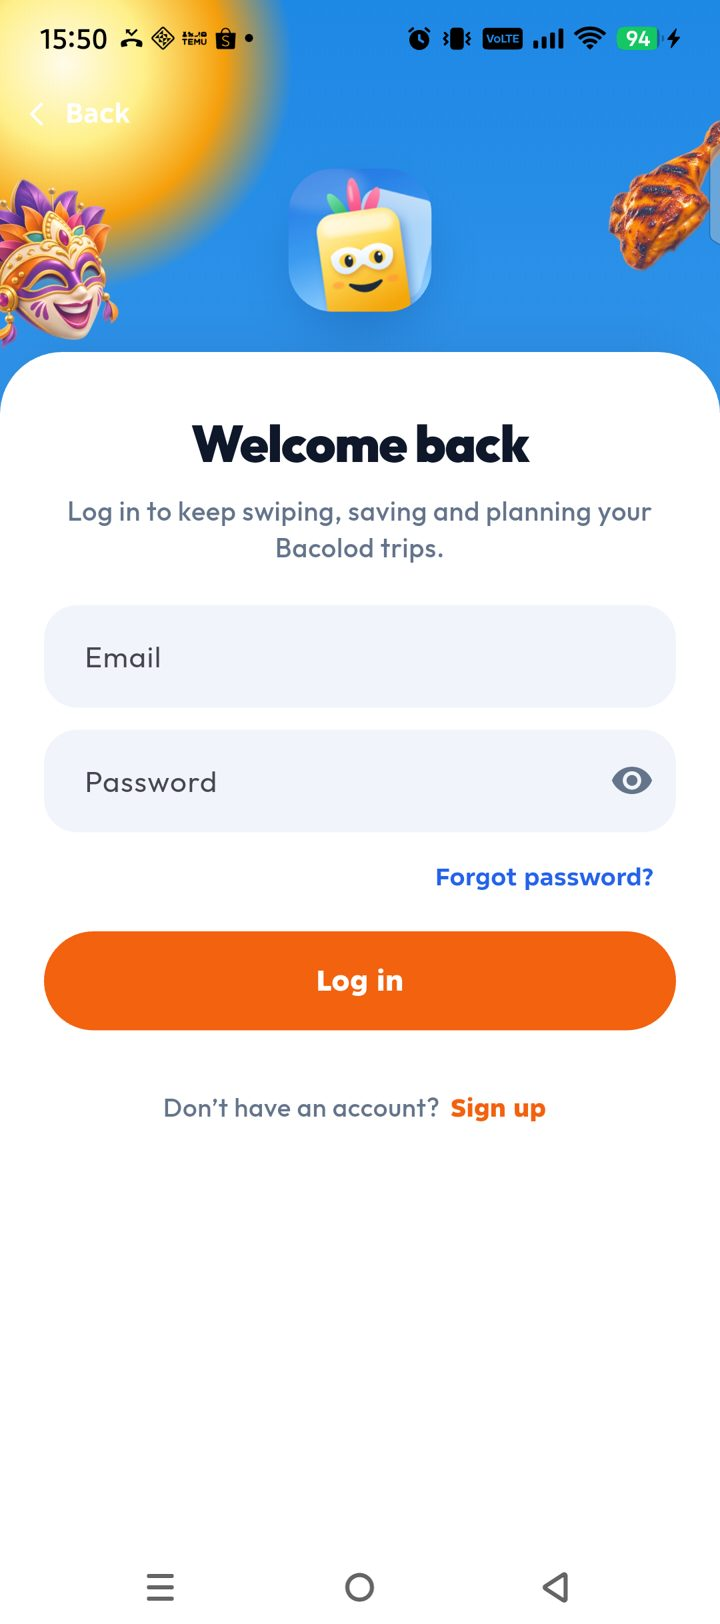
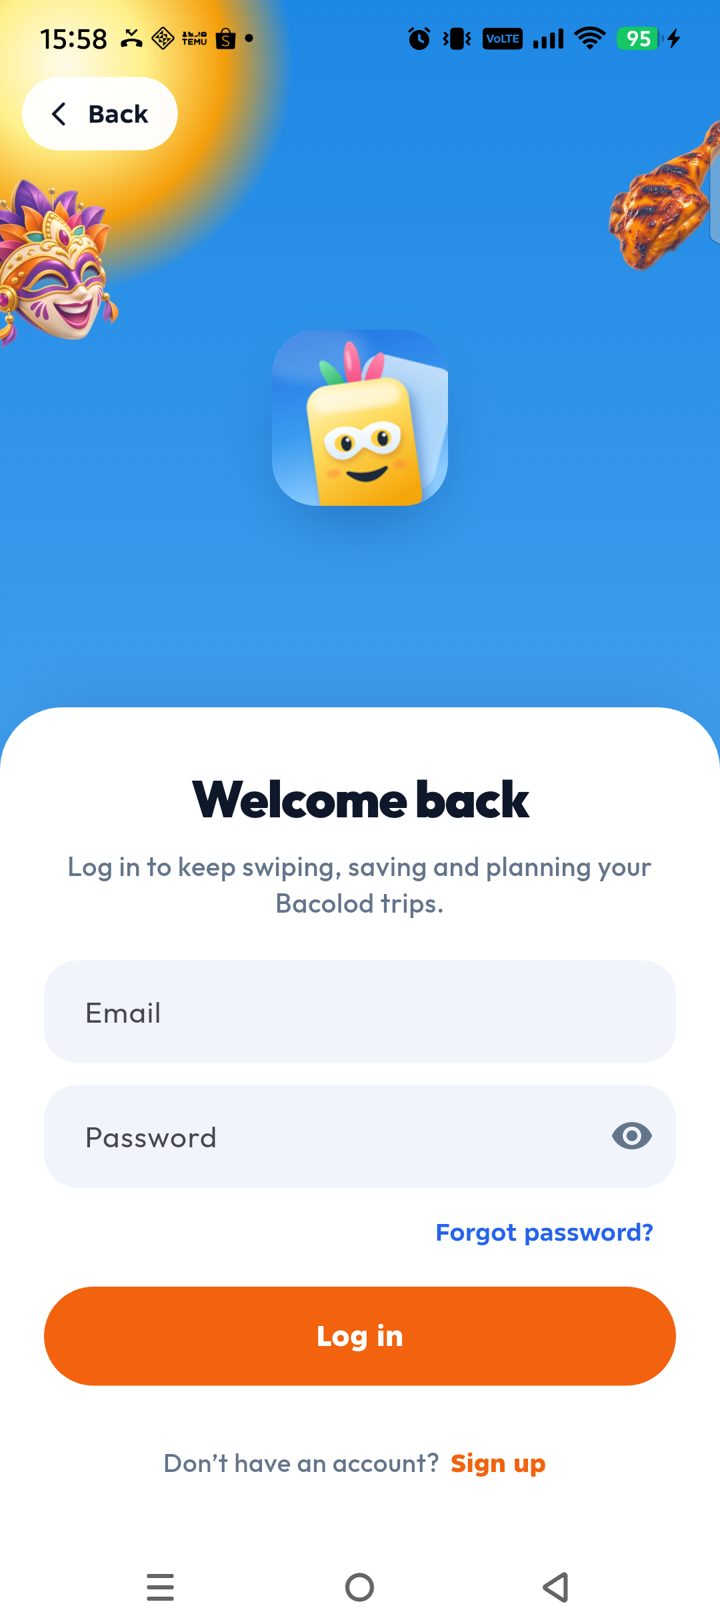
fix: auth sheet fits its form, sky takes the spare height

diff --git a/frontend/lib/auth/sign_in_screen.dart b/frontend/lib/auth/sign_in_screen.dart
@@ -274,101 +274,118 @@ class _SignInScreenState extends State<SignInScreen> {
               child: Center(
                 child: ConstrainedBox(
                   constraints: const BoxConstraints(maxWidth: 480),
-                  child: Column(
-                    children: [
-                      SizedBox(
-                        height: 52,
-                        child: Row(
-                          children: [
-                            const SizedBox(width: 12),
-                            if (canGoBack)
-                              TextButton.icon(
-                                key: const ValueKey('auth-back'),
-                                onPressed: _busy ? null : back,
-                                // A white pill, so it reads even over
-                                // the sun.
-                                style: TextButton.styleFrom(
-                                  backgroundColor: const Color(0xF5FFFFFF),
-                                  foregroundColor: AppTheme.slateDark,
-                                  shape: const StadiumBorder(),
-                                  padding: const EdgeInsets.fromLTRB(
-                                    12,
-                                    8,
-                                    16,
-                                    8,
-                                  ),
-                                  textStyle: const TextStyle(
-                                    fontSize: 14,
-                                    fontWeight: FontWeight.w700,
-                                  ),
+                  // The sheet is only as tall as the form; spare height
+                  // goes to the sky above it, and it all scrolls when the
+                  // keyboard is up.
+                  child: LayoutBuilder(
+                    builder: (context, box) => SingleChildScrollView(
+                      child: ConstrainedBox(
+                        constraints: BoxConstraints(minHeight: box.maxHeight),
+                        child: IntrinsicHeight(
+                          child: Column(
+                            children: [
+                              SizedBox(
+                                height: 52,
+                                child: Row(
+                                  children: [
+                                    const SizedBox(width: 12),
+                                    if (canGoBack)
+                                      TextButton.icon(
+                                        key: const ValueKey('auth-back'),
+                                        onPressed: _busy ? null : back,
+                                        // A white pill, so it reads even over
+                                        // the sun.
+                                        style: TextButton.styleFrom(
+                                          backgroundColor: const Color(
+                                            0xF5FFFFFF,
+                                          ),
+                                          foregroundColor: AppTheme.slateDark,
+                                          shape: const StadiumBorder(),
+                                          padding: const EdgeInsets.fromLTRB(
+                                            12,
+                                            8,
+                                            16,
+                                            8,
+                                          ),
+                                          textStyle: const TextStyle(
+                                            fontSize: 14,
+                                            fontWeight: FontWeight.w700,
+                                          ),
+                                        ),
+                                        icon: const Icon(
+                                          Icons.arrow_back_ios_new_rounded,
+                                          size: 16,
+                                        ),
+                                        label: const Text('Back'),
+                                      ),
+                                  ],
                                 ),
-                                icon: const Icon(
-                                  Icons.arrow_back_ios_new_rounded,
-                                  size: 16,
-                                ),
-                                label: const Text('Back'),
                               ),
-                          ],
-                        ),
-                      ),
-                      // The logo, floating in the sky above the sheet.
-                      Padding(
-                        padding: const EdgeInsets.only(top: 4, bottom: 22),
-                        child: Container(
-                          decoration: BoxDecoration(
-                            borderRadius: BorderRadius.circular(24),
-                            boxShadow: const [
-                              BoxShadow(
-                                color: Color(0x550A2A6B),
-                                blurRadius: 26,
-                                offset: Offset(0, 14),
-                                spreadRadius: -8,
+                              // The logo, floating in the middle of the sky.
+                              Expanded(
+                                child: Center(
+                                  child: Padding(
+                                    padding: const EdgeInsets.only(bottom: 18),
+                                    child: Container(
+                                      decoration: BoxDecoration(
+                                        borderRadius: BorderRadius.circular(24),
+                                        boxShadow: const [
+                                          BoxShadow(
+                                            color: Color(0x550A2A6B),
+                                            blurRadius: 26,
+                                            offset: Offset(0, 14),
+                                            spreadRadius: -8,
+                                          ),
+                                        ],
+                                      ),
+                                      child: ClipRRect(
+                                        borderRadius: BorderRadius.circular(24),
+                                        child: Image.asset(
+                                          'assets/brand/logo.png',
+                                          key: const ValueKey('auth-logo'),
+                                          width: 96,
+                                          height: 96,
+                                        ),
+                                      ),
+                                    ),
+                                  ),
+                                ),
+                              ),
+                              Container(
+                                width: double.infinity,
+                                decoration: const BoxDecoration(
+                                  color: Colors.white,
+                                  borderRadius: BorderRadius.vertical(
+                                    top: Radius.circular(34),
+                                  ),
+                                  boxShadow: [
+                                    BoxShadow(
+                                      color: Color(0x330F285A),
+                                      blurRadius: 30,
+                                      offset: Offset(0, -6),
+                                      spreadRadius: -12,
+                                    ),
+                                  ],
+                                ),
+                                child: Padding(
+                                  padding: EdgeInsets.fromLTRB(
+                                    24,
+                                    30,
+                                    24,
+                                    24 +
+                                        MediaQuery.paddingOf(context).bottom +
+                                        // Room for the "session expired" banner
+                                        // that stays at the bottom meanwhile.
+                                        (widget.reauthenticate ? 96 : 0),
+                                  ),
+                                  child: _form(title, subtitle),
+                                ),
                               ),
                             ],
                           ),
-                          child: ClipRRect(
-                            borderRadius: BorderRadius.circular(24),
-                            child: Image.asset(
-                              'assets/brand/logo.png',
-                              key: const ValueKey('auth-logo'),
-                              width: 78,
-                              height: 78,
-                            ),
-                          ),
                         ),
                       ),
-                      Expanded(
-                        child: Container(
-                          width: double.infinity,
-                          decoration: const BoxDecoration(
-                            color: Colors.white,
-                            borderRadius: BorderRadius.vertical(
-                              top: Radius.circular(34),
-                            ),
-                            boxShadow: [
-                              BoxShadow(
-                                color: Color(0x330F285A),
-                                blurRadius: 30,
-                                offset: Offset(0, -6),
-                                spreadRadius: -12,
-                              ),
-                            ],
-                          ),
-                          child: SafeArea(
-                            top: false,
-                            child: SingleChildScrollView(
-                              padding: const EdgeInsets.fromLTRB(
-                                24,
-                                30,
-                                24,
-                                24,
-                              ),
-                              child: _form(title, subtitle),
-                            ),
-                          ),
-                        ),
-                      ),
-                    ],
+                    ),
                   ),
                 ),
               ),

diff --git a/docs/sprint-log.md b/docs/sprint-log.md
@@ -1039,4 +1039,4 @@ is a different operation and was not triggered. See the
 - **Feedback round (Roel):** swipe cards were resized to the area Roel marked on a screenshot, and rating moved from the "Been here? Rate it" link to a star button between Pass and Like that shows the stars once rated. `flutter test` passes 270 tests; verified on the Infinix.
 - **Feedback round (Roel):** swipes no longer show a loading state. They are optimistic: the card flies off and the next place shows at once while the swipe saves in the background; a failed save undoes the swipe and shows why. Still sent once, never retried automatically. `flutter test` passes 271 tests (1 new); verified on the Infinix, where the check recorded a like on Capitol Park for account B.
 - **Feedback round (Roel):** Swipe your vibe now has floating elements around its card. Moving between tabs is smoother: elements glide one after another in a slight arc, elements changing sides drift out and back in from the edges, and pages cross-fade instead of snapping. `flutter test` passes 272 tests; verified on the Infinix with screen recordings.
-- **Feedback round (Roel):** signed-out users now see a four-page swipeable intro (Swipe your vibe first, then Spots, trip planning, and a welcome page with Create account and Log in). Log in and sign up were redesigned in the v3 style: a sky header with the logo and a white form sheet, email only. All sign-in behavior is unchanged. `flutter test` passes 275 tests; verified on the Infinix, where two layout fixes were made (overlapping pills on page 2, and a hard-to-read Back over the sun).
+- **Feedback round (Roel):** signed-out users now see a four-page swipeable intro (Swipe your vibe first, then Spots, trip planning, and a welcome page with Create account and Log in). Log in and sign up were redesigned in the v3 style: a sky header with the logo and a white form sheet, email only. All sign-in behavior is unchanged. `flutter test` passes 275 tests; verified on the Infinix, where two layout fixes were made (overlapping pills on page 2, and a hard-to-read Back over the sun). The form sheet was then tightened to the form's height (no empty white space below), with the spare space going to the sky and logo.

diff --git a/docs/evidence/home-redesign-v3.md b/docs/evidence/home-redesign-v3.md
@@ -186,3 +186,5 @@ Roel asked for a swipeable introduction before sign-in, with the swiping cards f
 | [intro_4](img/home-v3-android/intro_4.jpg) | Welcome to Lagaw: logo and elements, Create account and Log in | Pass |
 | [auth_login](img/home-v3-android/auth_login.jpg) | Welcome back: sky header with logo, email, password, Forgot password?, Log in, Sign up link | Pass |
 | [auth_signup](img/home-v3-android/auth_signup.jpg) | Create your account: Back pill, email, password, confirm, Create account, Log in link | Pass |
+
+Follow-up (Roel): the form sheet left a large empty white area at the bottom. It is now only as tall as the form, sitting at the bottom; the spare height goes to the sky, with a larger logo in the middle. Everything scrolls when the keyboard is up (checked on the Infinix; the Log in button stays visible above the keyboard). On the "Sign in again" screen after an expired session, the sheet leaves room for the expiry banner at the bottom, which would otherwise cover the button (caught by the existing re-sign-in test).
